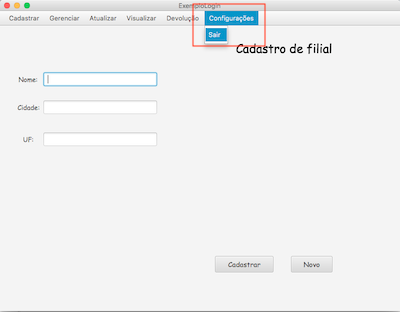
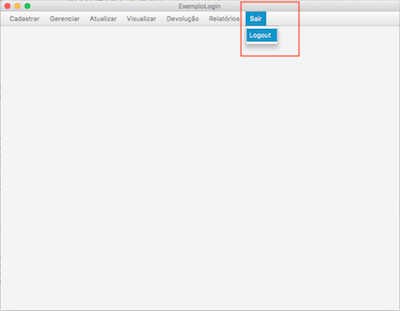
add tela devolução e relatório em manual

diff --git a/trabalhoWeb/index.html b/trabalhoWeb/index.html
@@ -133,15 +133,19 @@
 					<p>No momento em que o funcionário for realizar o aluguel, o mesmo tem a opção de fazer uma busca detalhada de carro, cliente, tipo de aluguel, funcionário e como no exemplo ao lado filial.</p>
 				</div>
 				<div class="detalhe">
-					<img src="https://placeimg.com/400/310/tech" alt="#">
-					<p>Tela devolução.</p>
+					<img src="Imagens/manual/devolucao.png" alt="#">
+					<p>A devolução de um veículo alugado deve ser feita na tela de devolução, para realizar o procedimento deve-se selecionar o item alugado na tabela, em seguida digitar a quilometragem em que o veiculo está na hora da devolução em seguida informar o tipo de pagamento que o cliente irá realizar, por fim clicar no botão devolver veículo.</p>
 				</div>
 				<div class="detalhe">
 					<p>Na hora da devolução o valor final será determinado pela soma do valor do veículo com o valor do aluguel, o resultado dessa conta será adicionado com a multiplicação da taxa de tipo de aluguel com a quilometragem de devolução menos a quilometragem na hora de aluguel dividido por mil. Após a finalização da compra um desconto de tipo de pagamento será calculado encima do resultado final subtraido a porcentagem do aluguel dado.</p>
 				</div>
 				<div class="detalhe">
+					<img src="Imagens/manual/relatorios.png" alt="#">
+					<p>Na opção Relatórios no menu, geram-se os relatórios de todos os alugueis ordenados por carro, mostrando data, cidade, km de saída e dados do funcionário; de aquisição de veículos, mostrando filial, data e detalhes do veiculo; carros ativos, mostrando detalhes do veículo e por fim controle de funcionário, mostrando os dados do mesmo juntamente com filial e data.</p>
+				</div>
+				<div class="detalhe">
 					<img src="Imagens/manual/sair.png" alt="#">
-					<p>Caso o funcionário deseje sair e voltar para a tela de login o mesmo poderá ir em configurações e sair.</p>
+					<p>Caso o funcionário deseje sair e voltar para a tela de login o mesmo poderá ir na opção de menu sair e em seguida logout.</p>
 				</div>
 			</div>	
 		</section>
